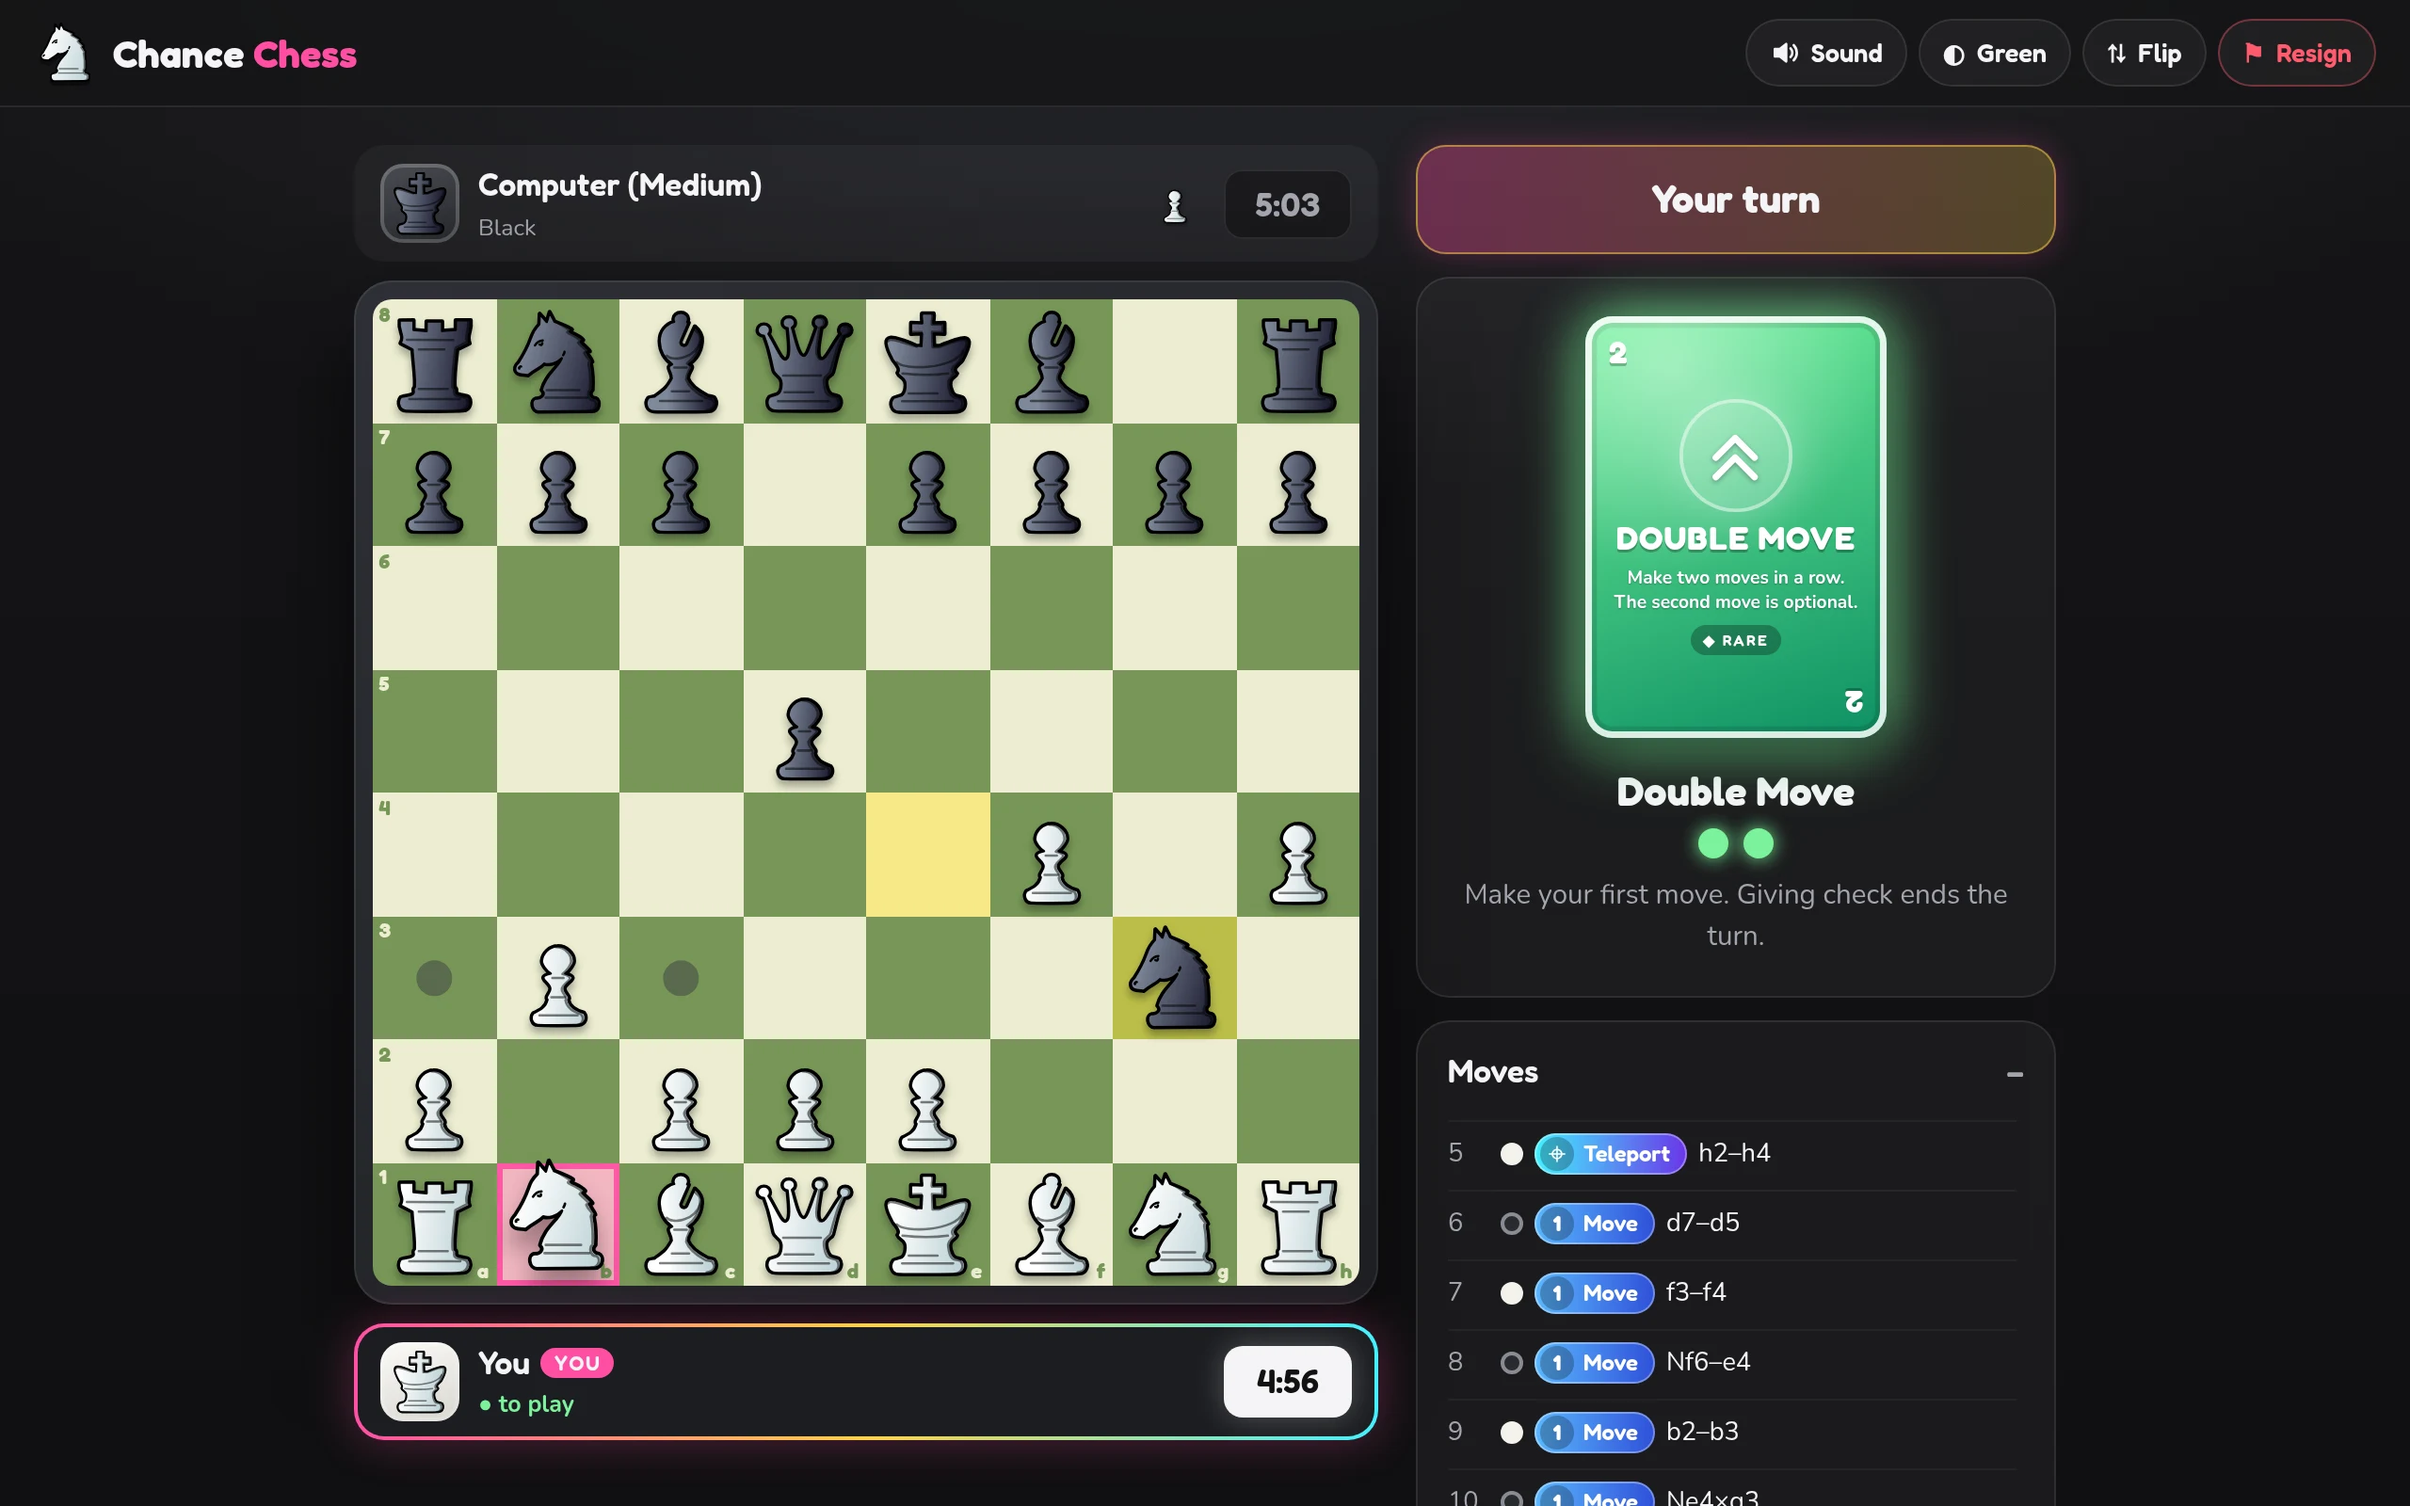
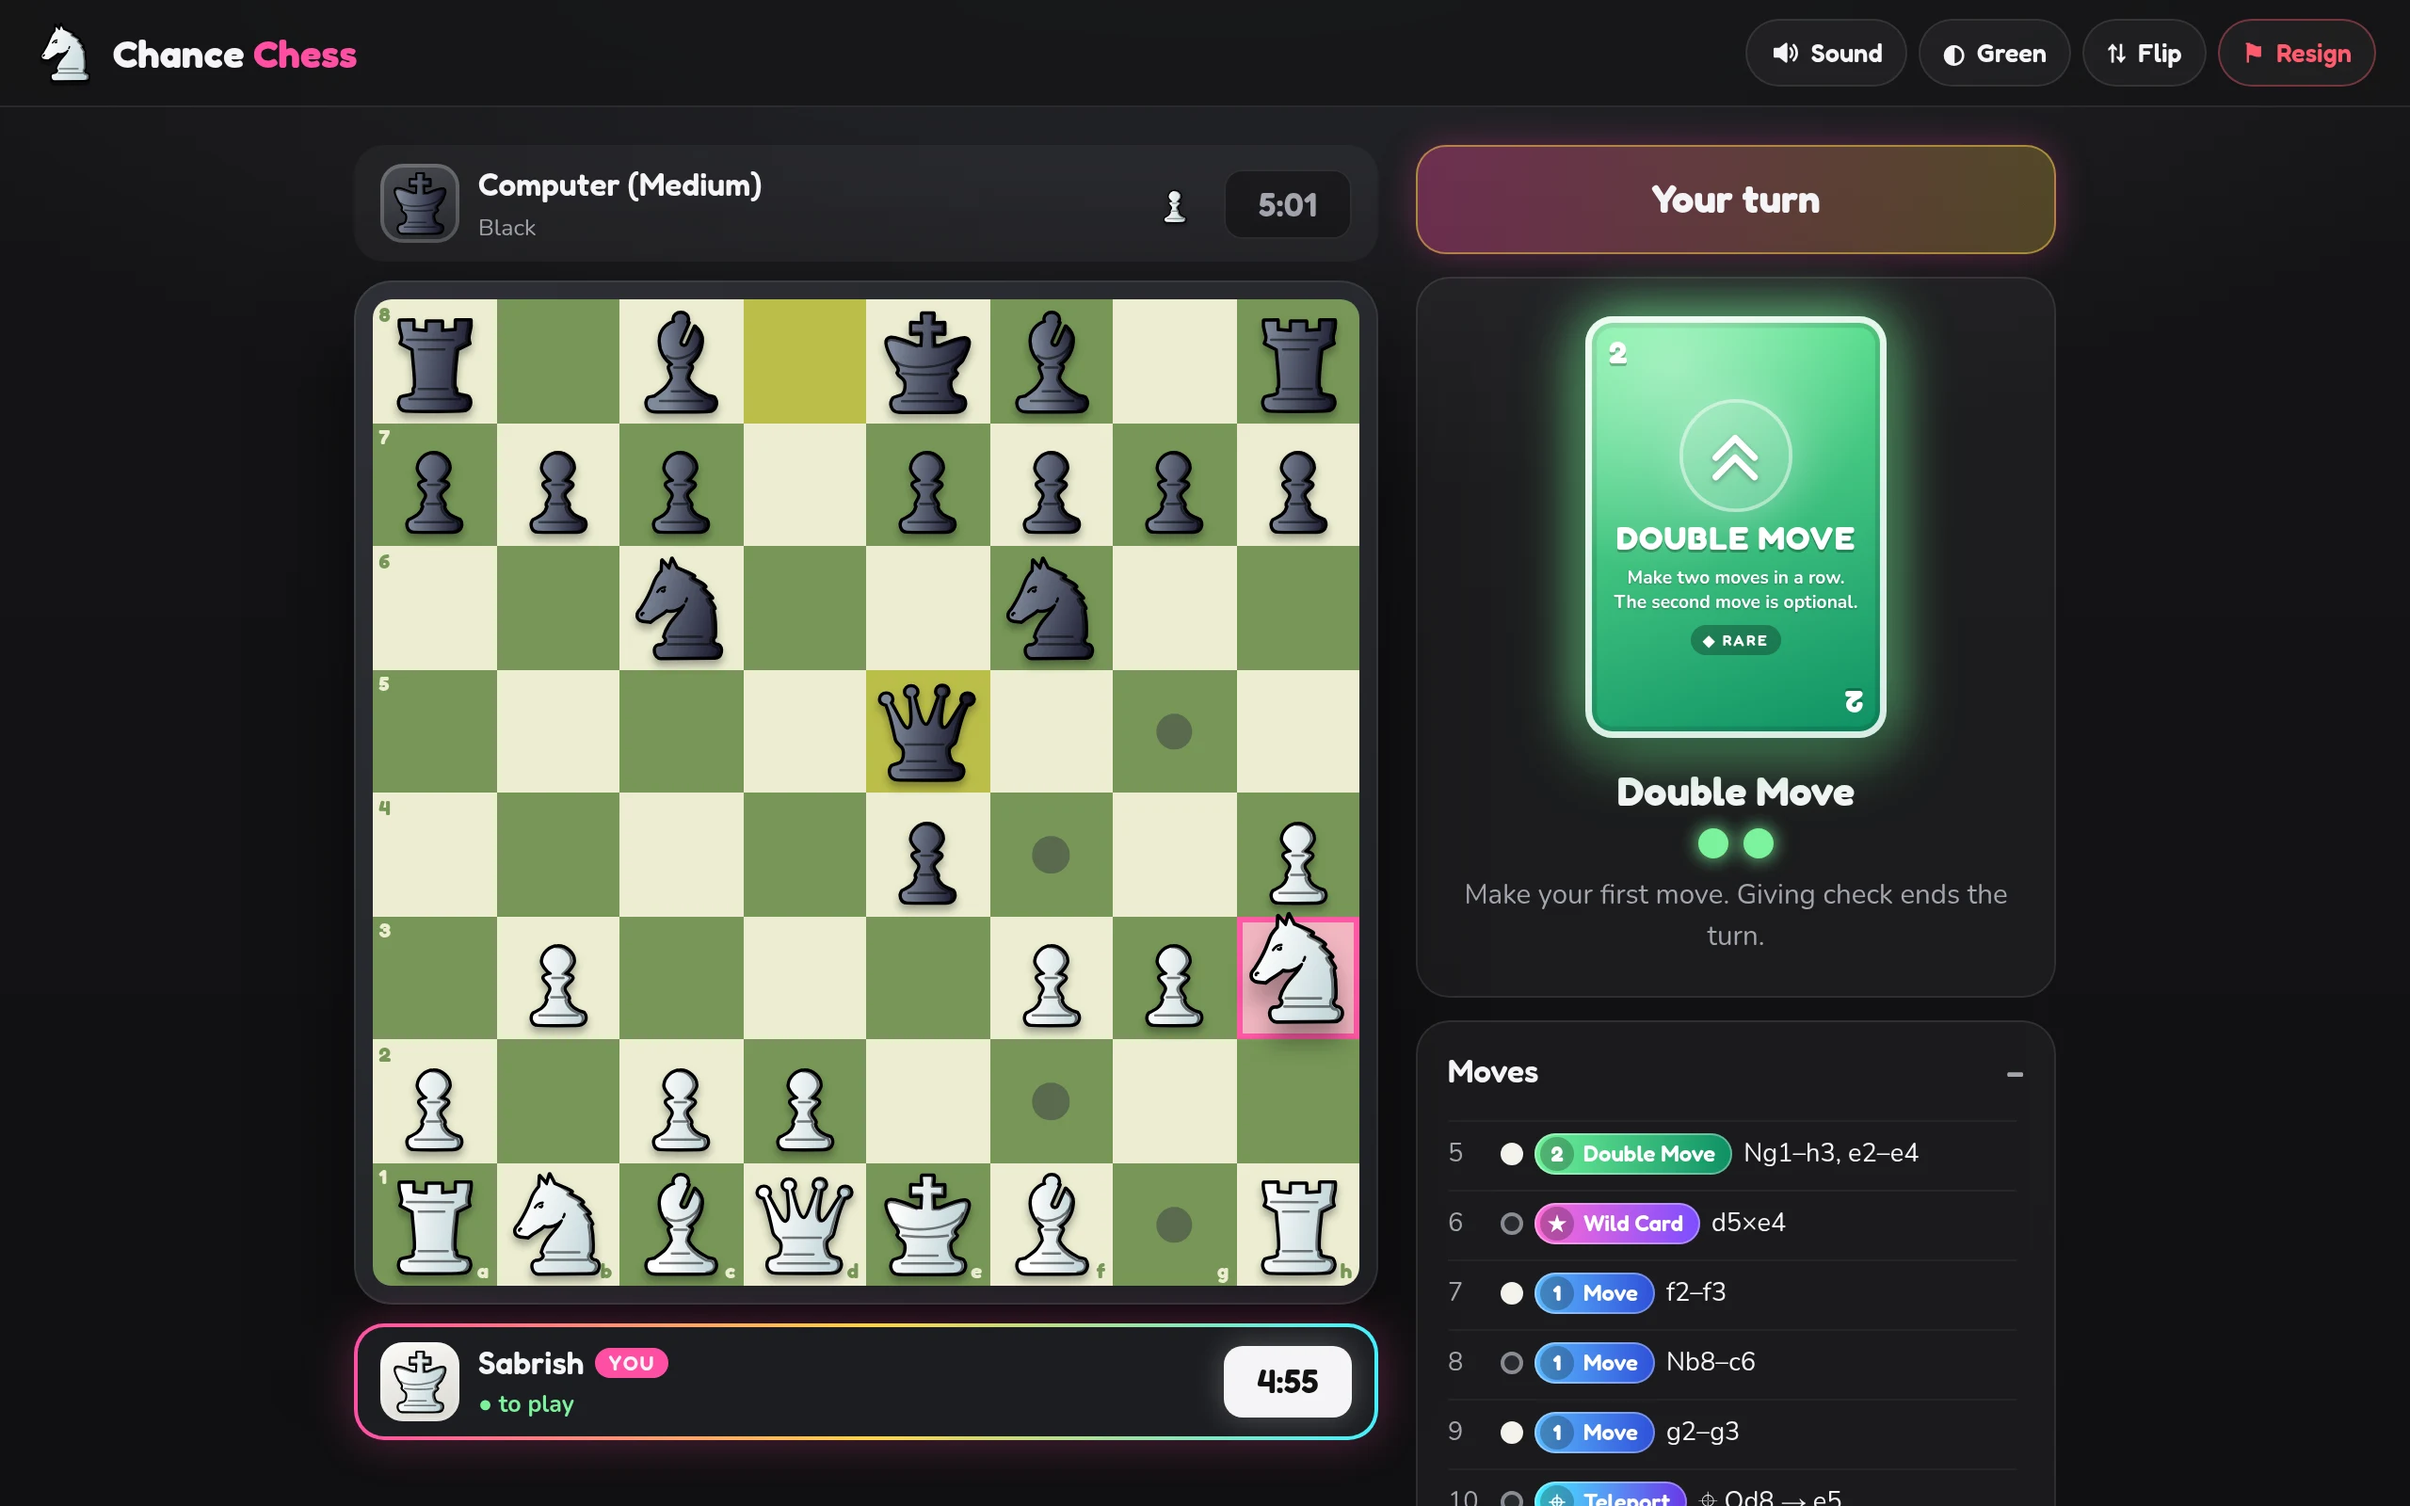
Screenshots with Sabrish as the player; computer waits after Skip/Undo
- README gameplay screenshots re-captured as "Sabrish" vs the computer
- After you draw Skip or Undo, the computer now waits for that card's
  reveal to finish before drawing, instead of covering it after ~1s

diff --git a/src/client/controllers.ts b/src/client/controllers.ts
@@ -79,6 +79,8 @@ export interface LocalOptions {
  * move finishes animating before it draws, and its card reveal finishes before it moves.
  */
 const AI_DRAW_DELAY_MS = 1000;
+/** After your Skip/Undo, wait for its reveal over the board to finish first. */
+const AI_DRAW_AFTER_REVEAL_MS = 2700;
 const AI_FIRST_MOVE_DELAY_MS = 1900;
 const AI_NEXT_MOVE_DELAY_MS = 1200;
 
@@ -112,8 +114,16 @@ export function useLocalGame(opts: LocalOptions): GameController {
 
     const id = ++requestId.current;
     const started = Date.now();
+    const last = state.log.at(-1);
+    const turnEndedOnTheSpot = !!last && last.actions.length === 0 && !!last.note;
     const minDelay =
-      state.phase === 'draw' ? AI_DRAW_DELAY_MS : state.movesMade === 0 ? AI_FIRST_MOVE_DELAY_MS : AI_NEXT_MOVE_DELAY_MS;
+      state.phase === 'draw'
+        ? turnEndedOnTheSpot
+          ? AI_DRAW_AFTER_REVEAL_MS
+          : AI_DRAW_DELAY_MS
+        : state.movesMade === 0
+          ? AI_FIRST_MOVE_DELAY_MS
+          : AI_NEXT_MOVE_DELAY_MS;
     let timer: number | undefined;
     setThinking(true);
 

diff --git a/README.md b/README.md
@@ -8,7 +8,7 @@ Play the computer, pass & play on one device, or play a friend online with a sha
 | | |
 | :---: | :---: |
 | ![Chance Chess home page with a fan of game cards](images/home.webp)<br>**Play the computer, a friend online, or pass & play** | ![A game against the computer with a Double Move card in play](images/game.webp)<br>**Draw a card, then play it** (with an optional chess clock) |
-| ![A Skip card stamped "Skipped!" over the board](images/cursed-card.webp)<br>**Cursed cards can cost you a turn** | ![Teleport portals showing every square a piece can jump to](images/teleport.webp)<br>**Teleport any piece to any empty square** |
+| ![An Undo card stamped "Rewind!" over the board](images/cursed-card.webp)<br>**Cursed cards can cost you a turn** | ![Teleport portals showing every square a piece can jump to](images/teleport.webp)<br>**Teleport any piece to any empty square** |
 
 ## Rules
 
